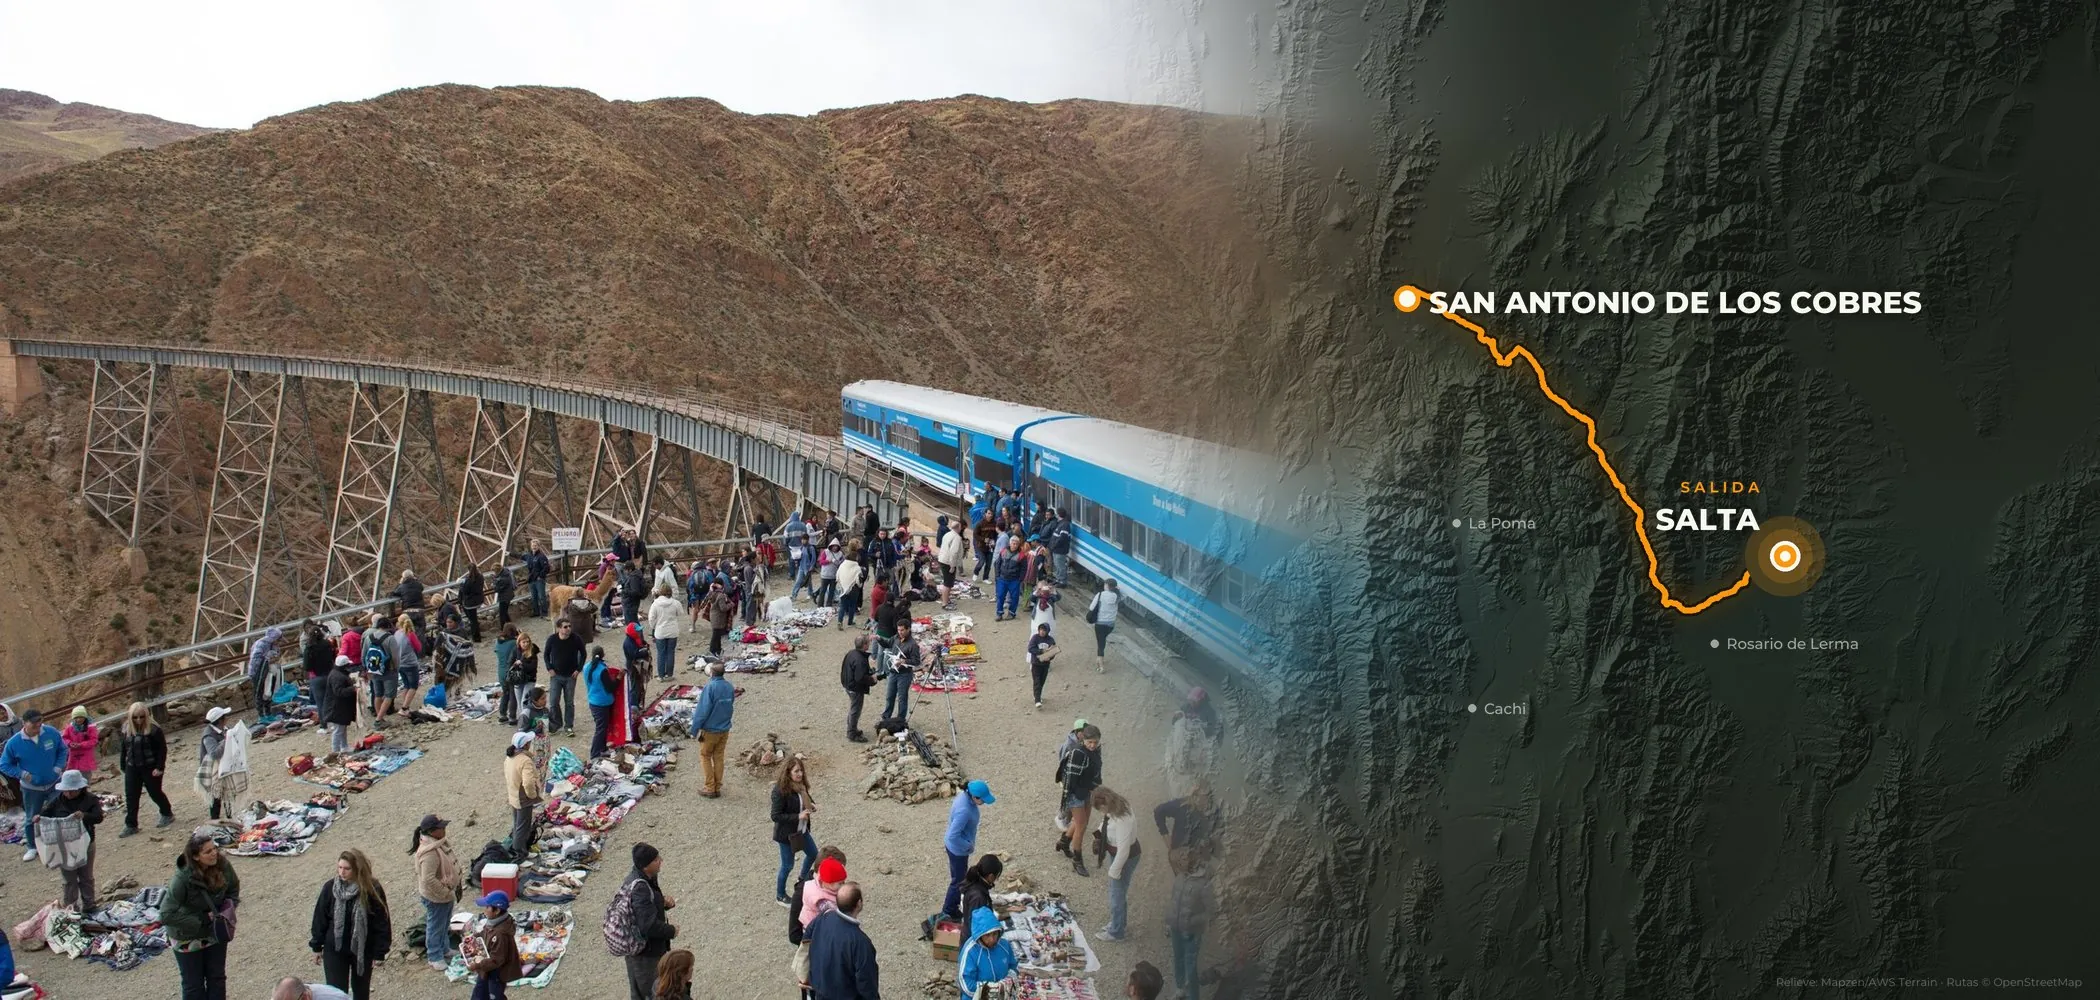
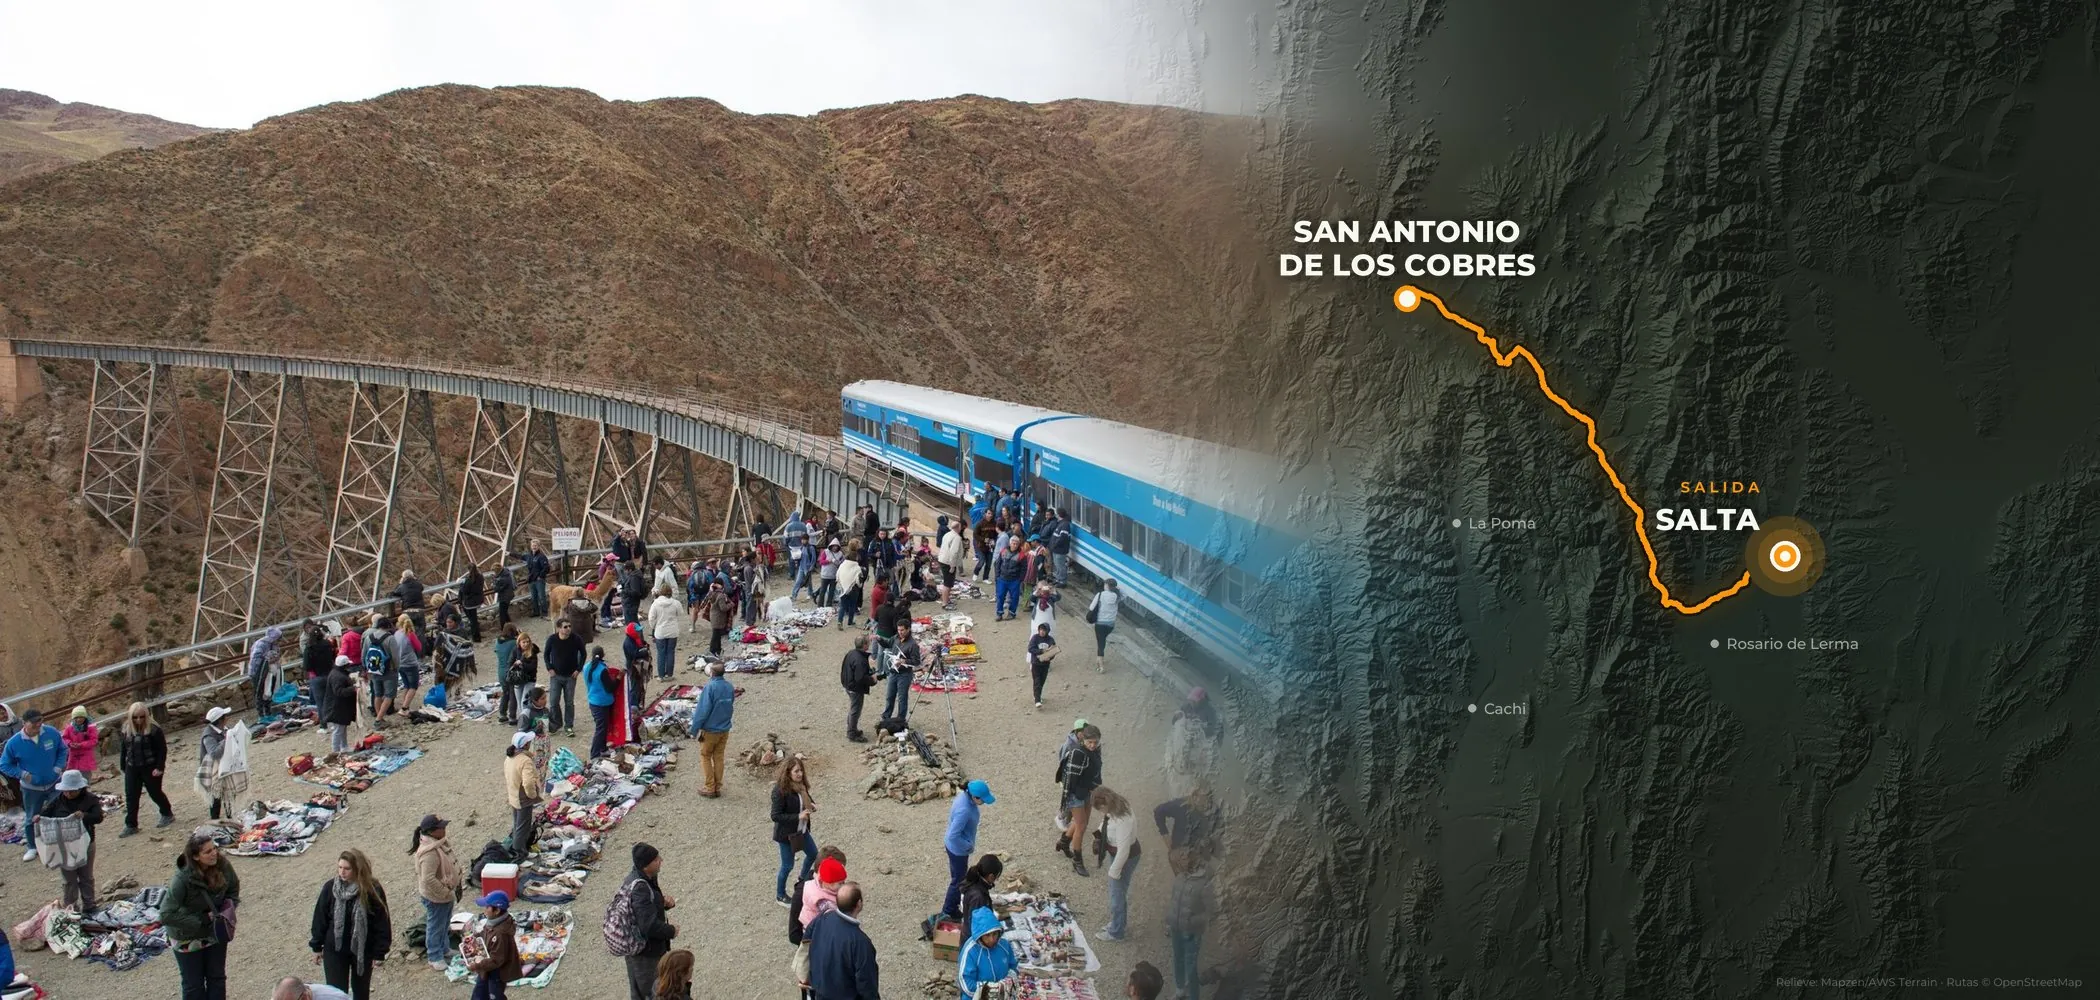
Nombres completos de las excursiones en todo el sitio
- Inicio: la lista ya no corta el nombre en ':' / '–' / '—'
  ("Salinas Grandes — Nocturna" se veía como "Salinas Grandes").
- Tarjetas: sin límite de 3 líneas en el nombre.
- Backoffice: la lista de excursiones muestra el nombre entero.
- Portadas: nombres completos en el mapa (San Salvador de Jujuy, Parque
  Nacional Calilegua, Libertador General San Martín, Quebrada de las
  Señoritas). Los nombres largos se parten en dos líneas.

Changed region(s): [[0.5881, 0.217, 0.9286, 0.31]]

diff --git a/client/src/pages/Home.tsx b/client/src/pages/Home.tsx
@@ -36,9 +36,6 @@ const DAILY_JUJUY = [
   'inca-cueva-humahuaca',
 ];
 
-/** Nombre corto de la excursión para las listas (antes de ':' / '–' / '|'). */
-const shortName = (n: string) => n.split(/[:|–—]/)[0].replace(/“|”/g, '').trim();
-
 const marqueeItems = ['Trekking', 'Salinas Grandes', 'Hornocal', 'Quebrada de Humahuaca', 'Cafayate', 'Purmamarca', 'Tilcara', 'Cachi', 'Iruya'];
 
 export default function Home() {
@@ -187,7 +184,7 @@ export default function Home() {
                       className="group flex items-center justify-between gap-4 py-3.5"
                     >
                       <span className="text-sm font-bold text-norte-green transition group-hover:text-norte-yellow-dark">
-                        {shortName(e.name)}
+                        {e.name}
                       </span>
                       <span className="shrink-0 text-xs font-extrabold uppercase tracking-wider text-norte-gray transition group-hover:text-norte-yellow-dark">
                         →

diff --git a/client/src/components/ExcursionCard.tsx b/client/src/components/ExcursionCard.tsx
@@ -61,7 +61,7 @@ export default function ExcursionCard({
         </span>
 
         <div className="absolute inset-x-0 bottom-0 p-6">
-          <h3 className="line-clamp-3 text-xl font-extrabold leading-tight text-white">{excursion.name}</h3>
+          <h3 className="text-xl font-extrabold leading-tight text-white">{excursion.name}</h3>
           <div className="mt-3 flex items-center gap-4 text-[11px] font-semibold uppercase tracking-wider text-norte-cream/70">
             <span className="inline-flex items-center gap-1.5">
               <ClockIcon className="h-3.5 w-3.5 text-norte-yellow" />

diff --git a/client/src/pages/admin/ExcursionEditor.tsx b/client/src/pages/admin/ExcursionEditor.tsx
@@ -333,7 +333,7 @@ export default function ExcursionEditor({
                 title={e.is_active ? 'Activa' : 'Oculta'}
               />
               <div className="min-w-0 flex-1">
-                <p className="truncate text-sm font-bold text-norte-green">{e.name}</p>
+                <p className="text-sm font-bold text-norte-green">{e.name}</p>
                 <p className="text-xs text-norte-gray">
                   {e.location} · {e.difficulty}
                 </p>

diff --git a/docs/portadas/portadas.py b/docs/portadas/portadas.py
@@ -50,12 +50,15 @@ MAP_X0 = int(0.41 * W)
 LBL = (0.64, 0.20, 0.90, 0.72)      # donde preferimos las etiquetas
 LBL_MAX = (0.60, 0.16, 0.92, 0.76)  # fuera de esto, nunca
 CTX_BOX = (0.66, 0.16, 0.91, 0.78)  # pueblos de referencia
+MAX_LBL_W = 0.16  # más ancho que esto (fracción del lienzo) -> dos líneas
+NL = chr(10)
+LINE_GAP = 4
 
 # ---------------------------------------------------------------- lugares
 P = {
     'SALTA': ('Salta', -24.7883, -65.4106),
     'TILCARA': ('Tilcara', -23.5770, -65.3953),
-    'JUJUY': ('S. S. de Jujuy', -24.1858, -65.2995),
+    'JUJUY': ('San Salvador de Jujuy', -24.1858, -65.2995),
     'PURMAMARCA': ('Purmamarca', -23.7456, -65.4986),
     'HUMAHUACA': ('Humahuaca', -23.2050, -65.3500),
     'CAFAYATE': ('Cafayate', -26.0730, -65.9759),
@@ -65,6 +68,7 @@ P = {
     'SALINAS': ('Salinas Grandes', -23.6300, -65.8700),
     'HORNOCAL': ('Hornocal', -23.2140, -65.2400),
     'UQUIA': ('Uquía', -23.3030, -65.3570),
+    'SENORITAS': ('Quebrada de las Señoritas', -23.3030, -65.3570),
     'IRUYA': ('Iruya', -22.7900, -65.2150),
     'TERMAS_JORDAN': ('Termas del Jordán', -23.6400, -64.9400),
     'SAN_ANTONIO': ('San Antonio de los Cobres', -24.2250, -66.3190),
@@ -79,7 +83,7 @@ P = {
     'INCA_CUEVA': ('Inca Cueva', -23.0500, -65.4400),
     'POZUELOS': ('Laguna de los Pozuelos', -22.3800, -65.9800),
     'ABRA_PAMPA': ('Abra Pampa', -22.7220, -65.6970),
-    'CALILEGUA': ('P. N. Calilegua', -23.7600, -64.8500),
+    'CALILEGUA': ('Parque Nacional Calilegua', -23.7600, -64.8500),
     'ACSIBI': ('Cuevas de Acsibi', -25.3100, -66.3000),
     'LA_POMA': ('La Poma', -24.7160, -66.2000),
     'CONCHAS': ('Quebrada de las Conchas', -25.8000, -65.6600),
@@ -88,7 +92,7 @@ P = {
     'SEPTIMO': ('Molinos', -25.4440, -66.3080),
     'ROSARIO_LERMA': ('Rosario de Lerma', -24.9790, -65.5800),
     'SAN_PEDRO': ('San Pedro', -24.2310, -64.8660),
-    'LIBERTADOR': ('Libertador Gral. San Martín', -23.8100, -64.7900),
+    'LIBERTADOR': ('Libertador General San Martín', -23.8100, -64.7900),
 }
 
 # Recorrido por excursión: el primero es desde donde sale.
@@ -104,7 +108,7 @@ RUTAS = {
     'cuevas-de-acisibi': ['SALTA', 'CACHI', 'ACSIBI'],
     'cuevas-del-wayra': ['TILCARA'],
     'excursion-a-cachi-desde-salta': ['SALTA', 'CACHI'],
-    'excursion-humahuaca-hornocal-quebrada-de-las-senoritas': ['TILCARA', 'UQUIA', 'HUMAHUACA', 'HORNOCAL'],
+    'excursion-humahuaca-hornocal-quebrada-de-las-senoritas': ['TILCARA', 'SENORITAS', 'HUMAHUACA', 'HORNOCAL'],
     'excursion-iruya-desde-tilcara': ['TILCARA', 'HUMAHUACA', 'IRUYA'],
     'garganta-del-diablo-tilcara': ['TILCARA', 'GARGANTA_TILCARA'],
     'humahuaca-hornocal': ['SALTA', 'HUMAHUACA', 'HORNOCAL'],
@@ -449,10 +453,17 @@ def portada(exc, variante):
         name = P[k][0].upper() if i in (0, len(marks) - 1) else P[k][0]
         fnt = f_main if i in (0, len(marks) - 1) else f_stop
         kicker = 'SALIDA' if i == 0 else None
-        tw = text_w(d, name, fnt)
+        # nombres largos en dos líneas (cortando en el espacio más cercano al medio)
+        if text_w(d, name, fnt) > MAX_LBL_W * W * S and ' ' in name:
+            words = name.split(' ')
+            cuts = [(abs(len(' '.join(words[:k])) - len(' '.join(words[k:]))), k) for k in range(1, len(words))]
+            k = min(cuts)[1]
+            name = ' '.join(words[:k]) + NL + ' '.join(words[k:])
+        lines = name.split(NL)
+        tw = max(text_w(d, ln, fnt) for ln in lines)
         kw = text_w(d, kicker, f_kick, 4 * S) if kicker else 0
         bw = max(tw, kw)
-        th = fnt.size
+        th = fnt.size * len(lines) + LINE_GAP * S * (len(lines) - 1)
         kh = (f_kick.size + 8 * S) if kicker else 0
         bh = th + kh
         gap = (34 if i == 0 else 22) * S
@@ -496,7 +507,8 @@ def portada(exc, variante):
     sd = ImageDraw.Draw(sh)
     for name, fnt, kicker, lx, ly, kh, bw, tw, kw, side in labels:
         ax = lx + (bw - tw if side == 'l' else (bw - tw) / 2 if side in 't b' else 0)
-        sd.text((ax, ly + kh), name, font=fnt, fill=v['shadow'])
+        sd.text((ax, ly + kh), name, font=fnt, fill=v['shadow'], spacing=LINE_GAP * S,
+                align='right' if side == 'l' else 'center' if side in 't b' else 'left')
         if kicker:
             kx = lx + (bw - kw if side == 'l' else (bw - kw) / 2 if side in 't b' else 0)
             draw_text(sd, (kx, ly), kicker, f_kick, v['shadow'], spacing=4 * S)
@@ -505,7 +517,8 @@ def portada(exc, variante):
     d = ImageDraw.Draw(layer)
     for name, fnt, kicker, lx, ly, kh, bw, tw, kw, side in labels:
         ax = lx + (bw - tw if side == 'l' else (bw - tw) / 2 if side in 't b' else 0)
-        d.text((ax, ly + kh), name, font=fnt, fill=v['text'] + (255,))
+        d.text((ax, ly + kh), name, font=fnt, fill=v['text'] + (255,), spacing=LINE_GAP * S,
+               align='right' if side == 'l' else 'center' if side in 't b' else 'left')
         if kicker:
             kx = lx + (bw - kw if side == 'l' else (bw - kw) / 2 if side in 't b' else 0)
             draw_text(d, (kx, ly), kicker, f_kick, v['kicker'] + (255,), spacing=4 * S)
